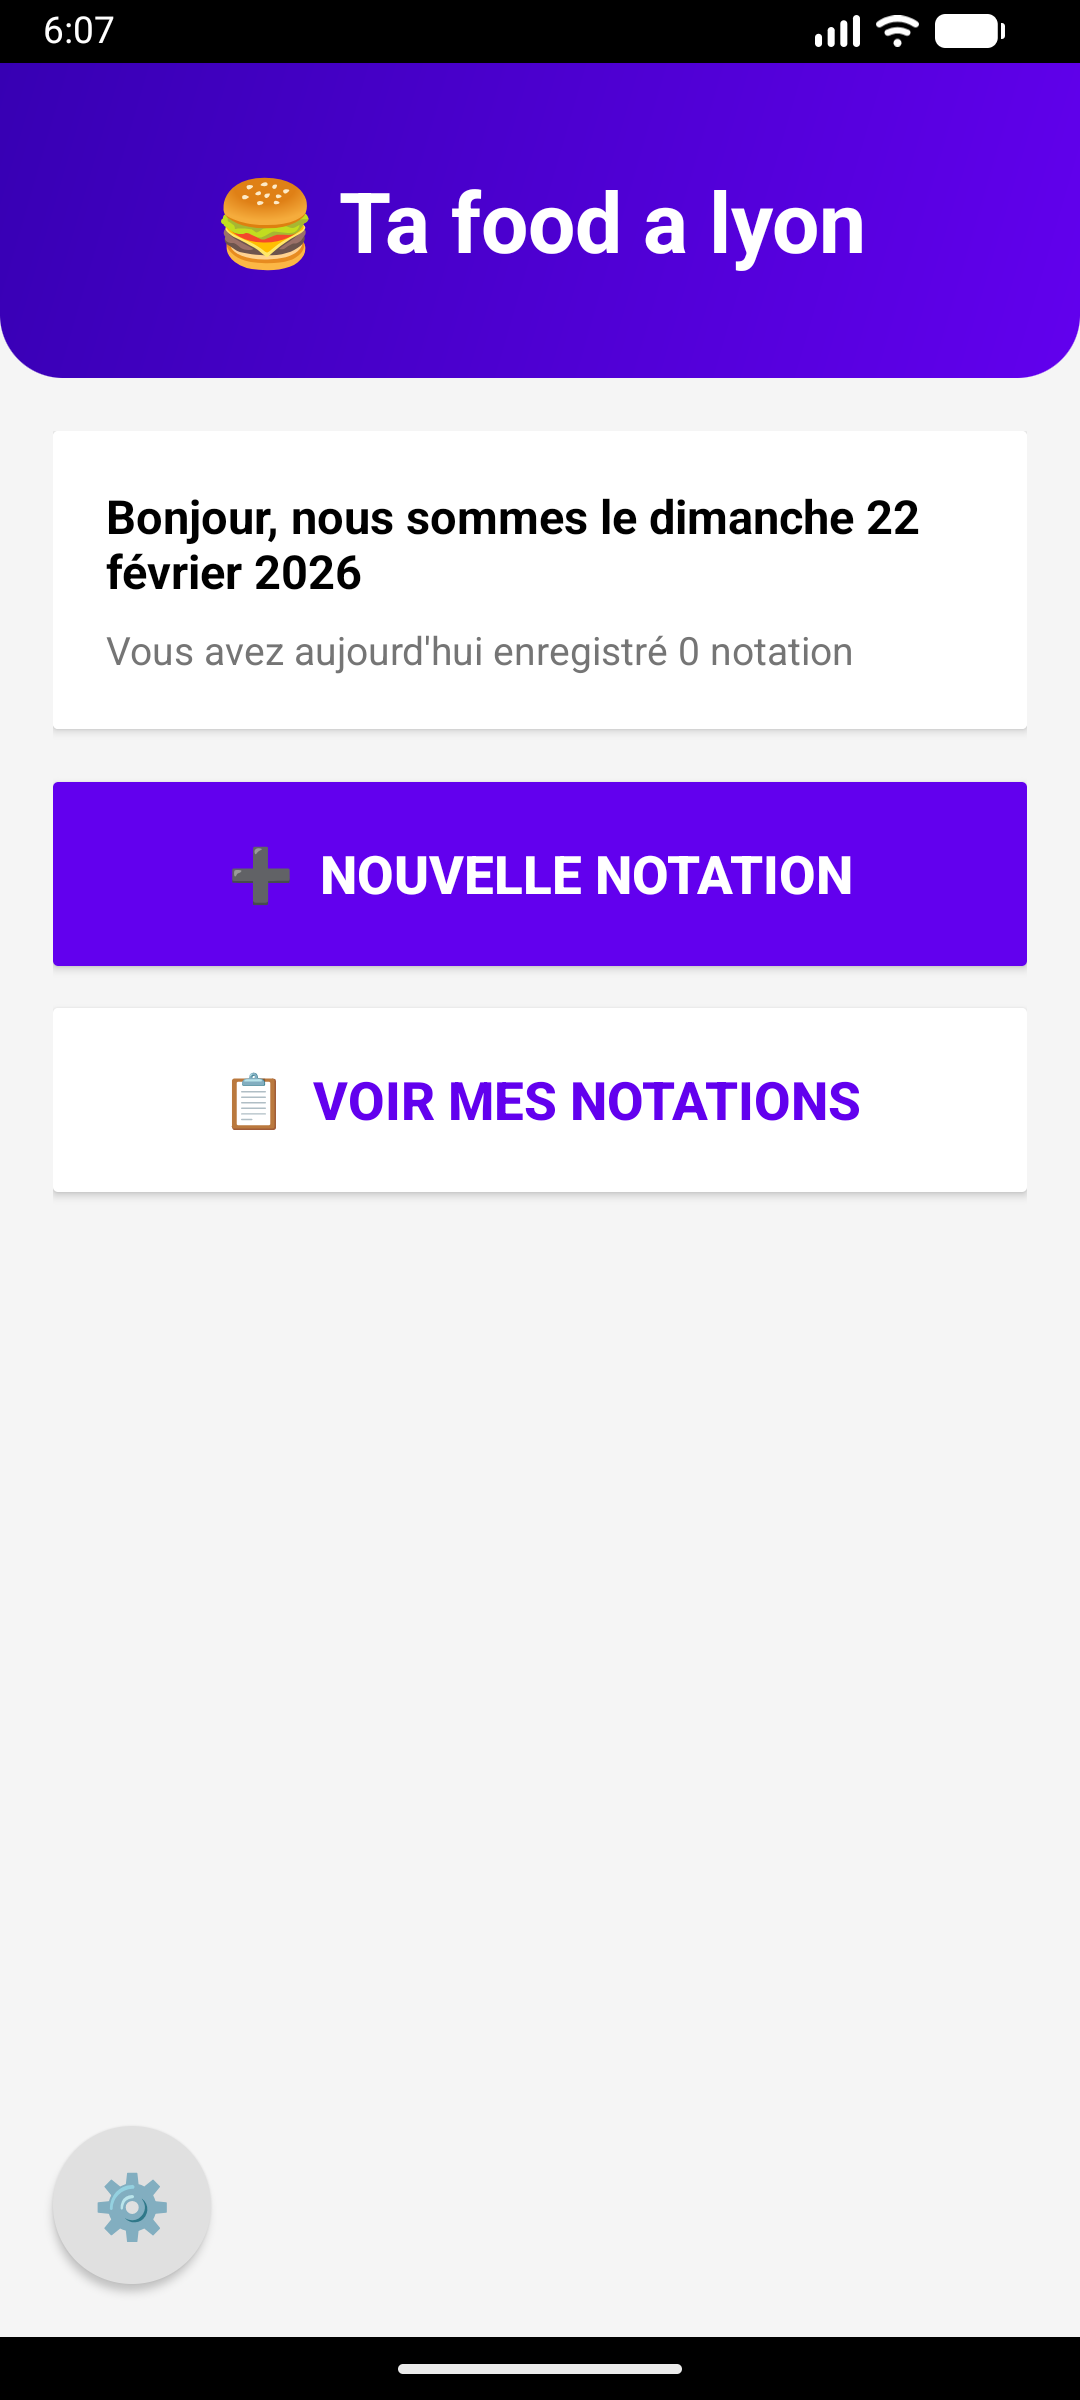
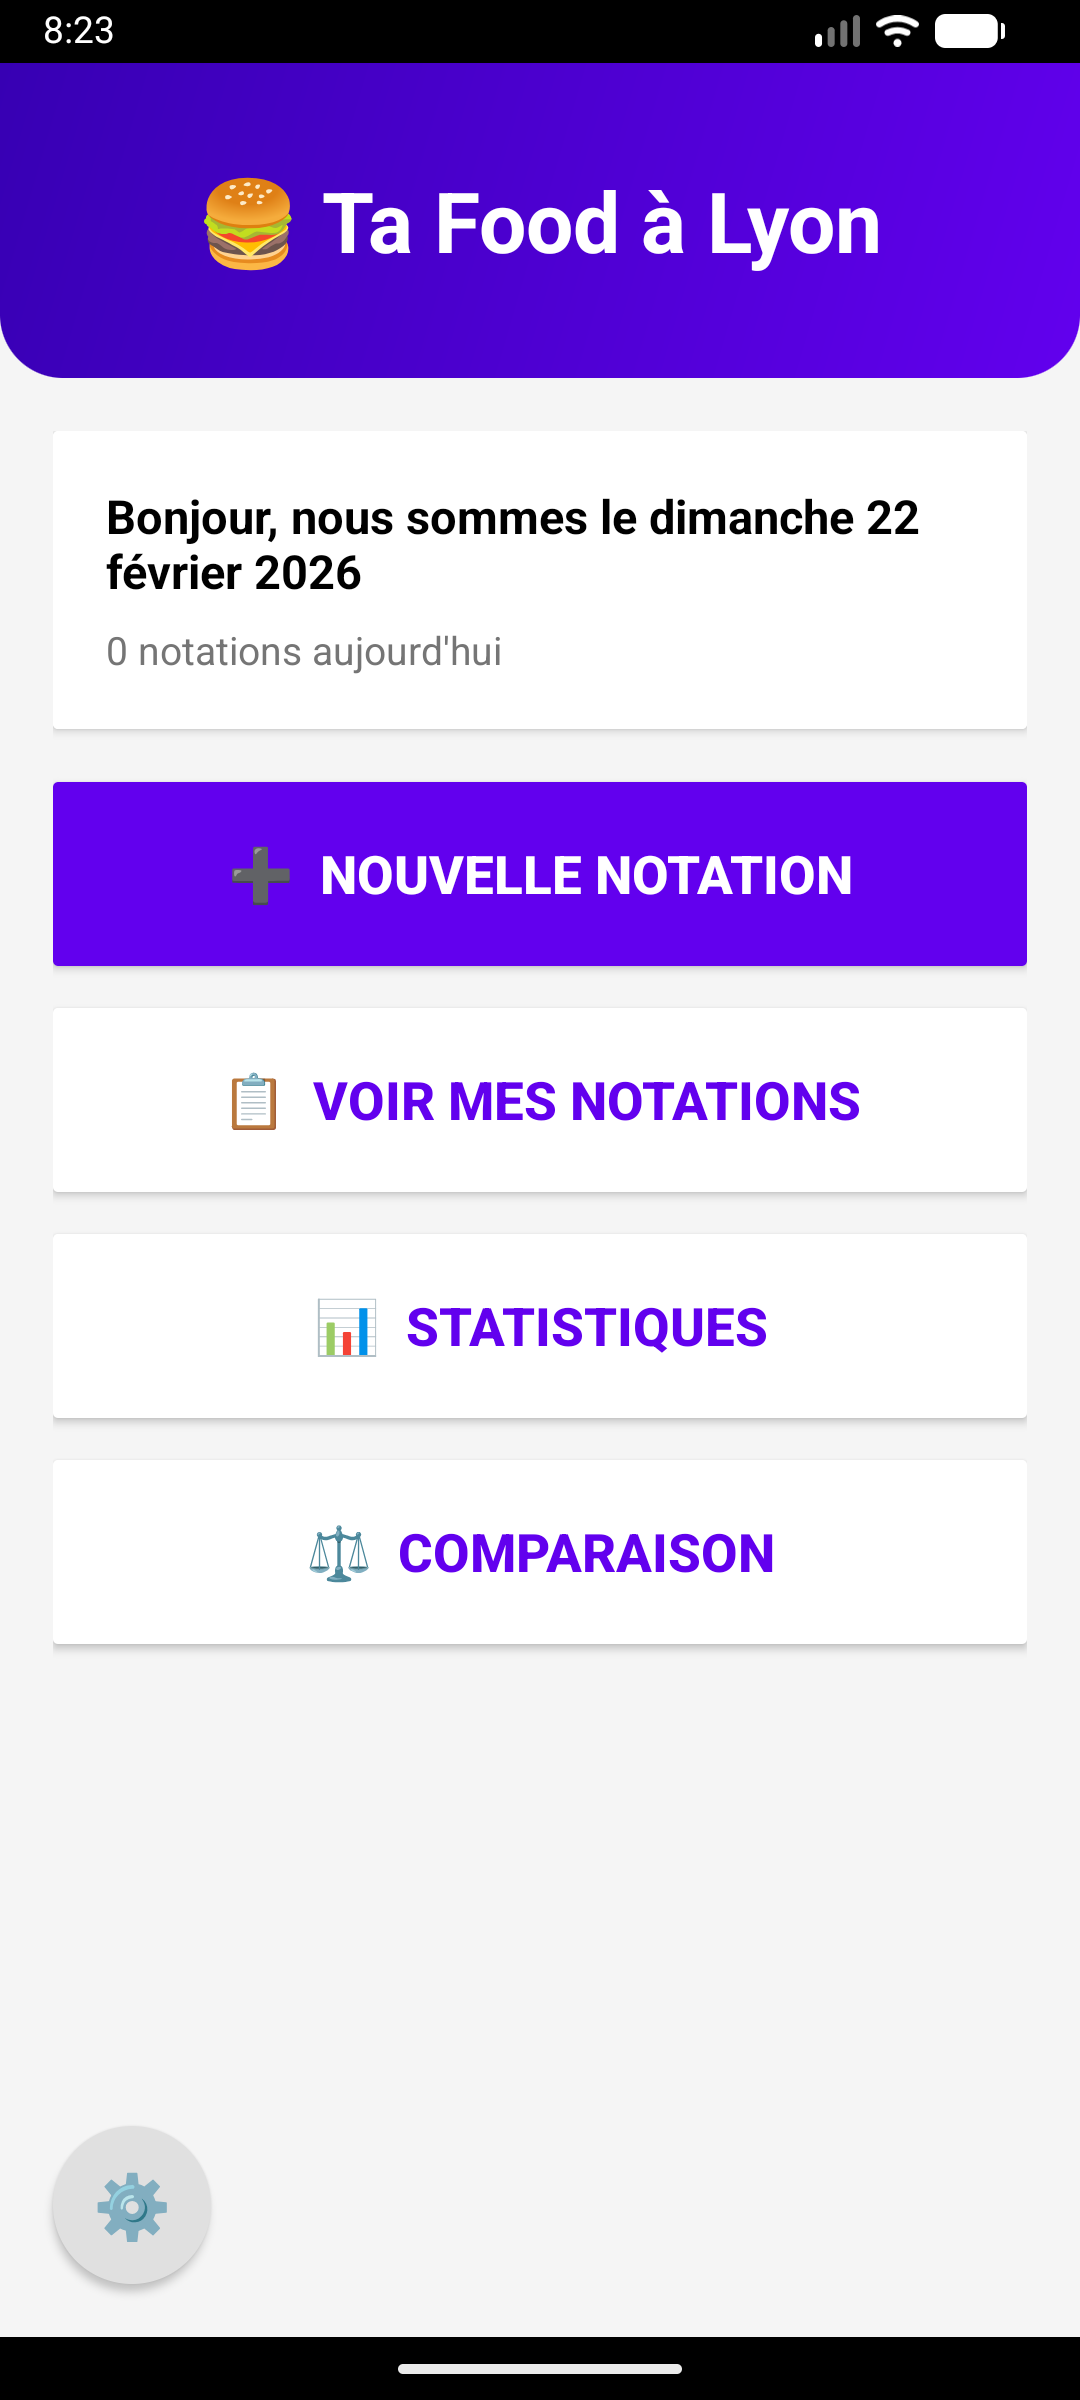
Ajout de screen et grammaire

diff --git a/style.css b/style.css
@@ -9,6 +9,9 @@ body {
     line-height: 1.8;
     color: #3d3d3d;
     background: #fef9f3;
+    min-height: 100vh;
+    display: flex;
+    flex-direction: column;
 }
 
 .container {
@@ -48,6 +51,7 @@ header h1 {
 
 main {
     padding: 50px 20px;
+    flex: 1;
 }
 
 .hero {
@@ -166,12 +170,12 @@ main {
 }
 
 .btn-download-apk {
-    display: flex;
+    display: inline-flex;
     align-items: center;
     gap: 20px;
     background: #ff6b6b;
     color: white;
-    padding: 25px 50px;
+    padding: 30px 60px;
     text-decoration: none;
     border-radius: 20px;
     transition: all 0.3s ease;
@@ -186,18 +190,18 @@ main {
 }
 
 .apk-icon {
-    font-size: 3.5rem;
+    font-size: 4rem;
 }
 
 .btn-download-apk strong {
     display: block;
-    font-size: 1.5rem;
+    font-size: 1.7rem;
     margin-bottom: 5px;
 }
 
 .btn-download-apk small {
     display: block;
-    font-size: 1rem;
+    font-size: 1.1rem;
     opacity: 0.9;
 }
 
@@ -241,7 +245,7 @@ footer {
     color: #fef9f3;
     text-align: center;
     padding: 40px 0;
-    margin-top: 70px;
+    margin-top: auto;
     font-family: -apple-system, sans-serif;
 }
 
@@ -256,10 +260,12 @@ footer p {
     gap: 20px;
     margin: 40px 0;
     flex-wrap: wrap;
+    overflow-x: auto;
 }
 
 .screenshot {
     max-width: 300px;
+    min-width: 200px;
     width: 100%;
     height: auto;
     border-radius: 20px;
@@ -272,6 +278,10 @@ footer p {
 }
 
 @media (max-width: 768px) {
+    header {
+        padding: 50px 0;
+    }
+    
     header h1 {
         font-size: 2.3rem;
     }
@@ -282,6 +292,14 @@ footer p {
     
     .availability {
         font-size: 0.95rem;
+    }
+    
+    main {
+        padding: 30px 15px;
+    }
+    
+    .hero {
+        padding: 40px 0;
     }
     
     .hero h2 {
@@ -297,29 +315,42 @@ footer p {
         font-size: 1.1rem;
     }
     
+    .screenshots {
+        gap: 15px;
+        margin: 30px 0;
+    }
+    
+    .screenshot {
+        max-width: 250px;
+        min-width: 180px;
+    }
+    
     .features h3,
     .download h3 {
         font-size: 1.8rem;
     }
     
+    .download {
+        padding: 40px 20px;
+        margin: 30px 0;
+    }
+    
     .btn-download-apk {
         padding: 20px 30px;
         gap: 15px;
+        flex-direction: column;
+        text-align: center;
     }
     
     .apk-icon {
-        font-size: 2.8rem;
+        font-size: 3rem;
     }
     
     .btn-download-apk strong {
-        font-size: 1.2rem;
+        font-size: 1.3rem;
     }
     
     .btn-download-apk small {
-        font-size: 0.9rem;
-    }
-    
-    .download {
-        padding: 50px 25px;
+        font-size: 0.95rem;
     }
 }

diff --git a/update/index.html b/update/index.html
@@ -10,7 +10,7 @@
 <body>
     <header>
         <div class="container">
-            <h1>🍽 Ta Food A Lyon</h1>
+            <h1>🍽 Ta Food À Lyon</h1>
             <p class="tagline">Merci d'utiliser notre application !</p>
         </div>
     </header>
@@ -18,10 +18,10 @@
     <main class="container">
         <section class="hero">
             <h2>Une nouvelle version est disponible</h2>
-            <p>Merci de faire confiance à Ta Food A Lyon. Mettez à jour l'application pour profiter des dernières fonctionnalités.</p>
+            <p>Merci de faire confiance à Ta Food À Lyon. Mettez à jour l'application pour profiter des dernières fonctionnalités.</p>
             <a href="https://github.com/liveweeeb13/tfal/releases/download/2026.02.22-3/TaFoodALyon_2026.02.22-3.apk" download class="btn-download-apk">
-                 <div>
-                    <strong>Mettre À Jour v2026.02.22-3 </strong>
+                <div>
+                    <strong>Mettre À Jour v2026.02.22-3</strong>
                     <small>Dernière version</small>
                 </div>
             </a>
@@ -31,7 +31,7 @@
     <footer>
         <div class="container">
             <p>Créé par <strong>liveweeeb</strong></p>
-            <p>&copy; 2026 Ta Food A Lyon - Tous droits réservés</p>
+            <p>&copy; 2026 Ta Food À Lyon - Tous droits réservés</p>
         </div>
     </footer>
 </body>

diff --git a/index.html b/index.html
@@ -11,7 +11,7 @@
 <body>
     <header>
         <div class="container">
-            <h1>🍽 Ta Food A Lyon</h1>
+            <h1>🍽 Ta Food À Lyon</h1>
             <p class="tagline">Découvrez et notez les meilleurs restaurants</p>
             <p class="availability">✨ Disponible partout en France</p>
         </div>
@@ -20,11 +20,12 @@
     <main class="container">
         <section class="hero">
             <h2>L'application pour les gourmets</h2>
-            <p>Ta Food A Lyon vous permet de noter et partager vos expériences culinaires dans vos restaurants préférés.</p>
+            <p>Ta Food À Lyon vous permet de noter et partager vos expériences culinaires dans vos restaurants préférés.</p>
             
             <div class="screenshots">
                 <img src="screen1.png" alt="Capture d'écran 1" class="screenshot">
                 <img src="screen2.png" alt="Capture d'écran 2" class="screenshot">
+                <img src="screen3.png" alt="Capture d'écran 3" class="screenshot">
             </div>
          </section>
 
@@ -43,7 +44,7 @@
     <footer>
         <div class="container">
             <p>Créé par <strong>liveweeeb</strong></p>
-            <p>&copy; 2026 Ta Food A Lyon - Tous droits réservés</p>
+            <p>&copy; 2026 Ta Food À Lyon - Tous droits réservés</p>
         </div>
     </footer>
 </body>
